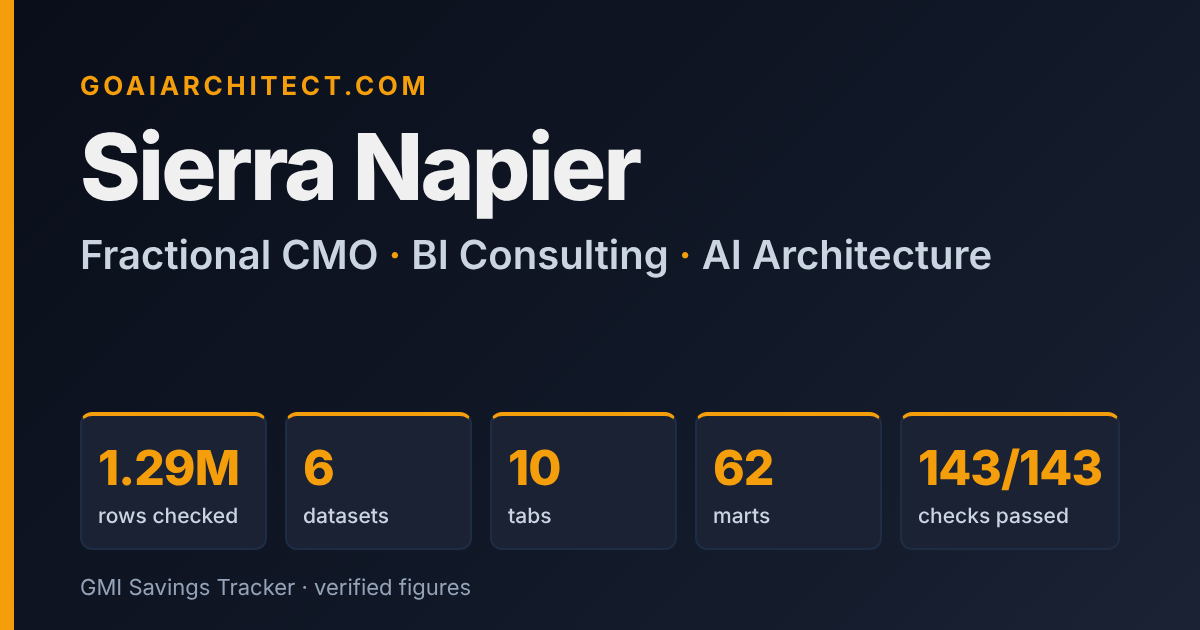
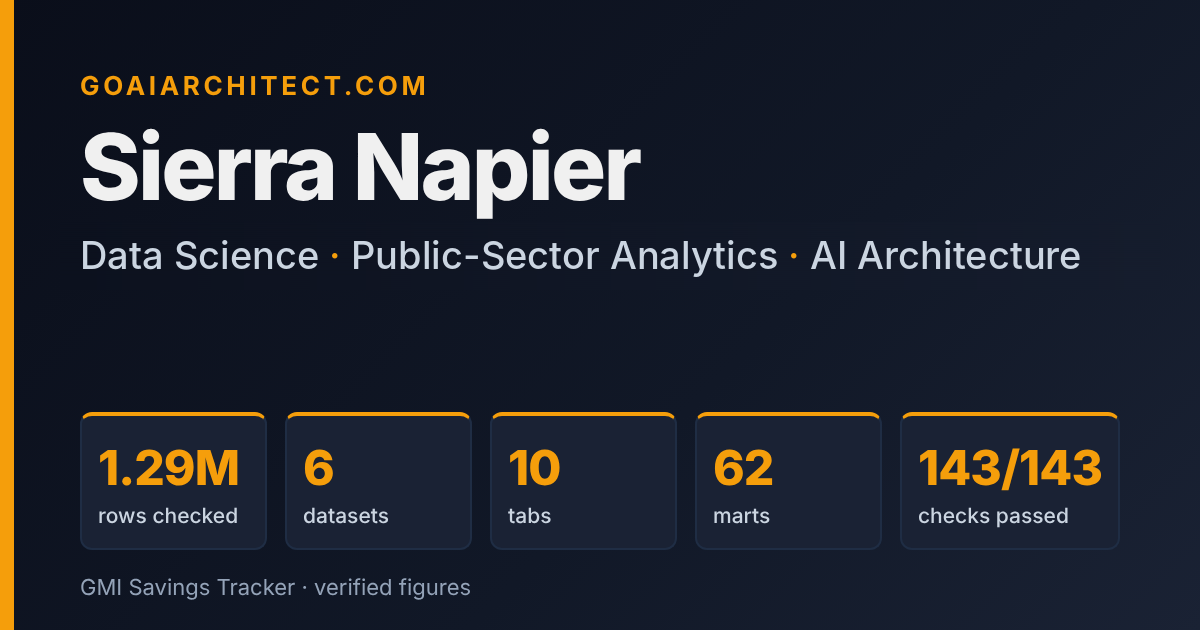
Lead with data science; add GMI case study; stop linking the private repo
- Title, meta, Open Graph, Twitter, JSON-LD and hero now lead with data science
  and public-sector analytics; fractional/BI consulting is secondary.
- Regenerate the social-share image and fix its alt text.
- New case study page at /projects/gmi-savings-tracker/ (problem, method, result,
  limits; both reported totals kept apart and labeled unverified).
- Repoint the ten GMI card links and the footer from the private repo to the case study.

Claude-Session: https://claude.ai/code/session_01PGNQKw68gNTRMx4kbQH89J

Changed region(s): [[0.0617, 0.3619, 0.925, 0.4524]]

diff --git a/index.html b/index.html
@@ -3,9 +3,9 @@
 <head>
     <meta charset="UTF-8">
     <meta name="viewport" content="width=device-width, initial-scale=1.0">
-    <meta name="description" content="Sierra Napier — Fractional CMO & BI Consulting. MPA/MPH. Data Scientist | AI Architect | Analytics Viz. Available for fractional leadership, BI consulting, and AI architecture engagements.">
-    <meta property="og:title" content="Sierra Napier — Fractional CMO & BI Consulting">
-    <meta property="og:description" content="Fractional CMO | BI Consulting | AI Architecture. 1.29M rows checked against the portal. 6 Maryland open datasets. 143 of 143 data checks passed.">
+    <meta name="description" content="Sierra Napier, MPA/MPH: data scientist and AI architect for public-sector analytics. 1.29M Maryland open-data rows verified, 143 of 143 checks passed.">
+    <meta property="og:title" content="Sierra Napier | Data Scientist, Public-Sector Analytics">
+    <meta property="og:description" content="Data scientist and AI architect for public-sector analytics. 1.29M rows checked against the portal, 6 Maryland open datasets, 143 of 143 data checks passed.">
     <link rel="canonical" href="https://goaiarchitect.com/">
     <meta property="og:url" content="https://goaiarchitect.com/">
     <meta property="og:type" content="website">
@@ -15,13 +15,13 @@
     <meta property="og:image:type" content="image/png">
     <meta property="og:image:width" content="1200">
     <meta property="og:image:height" content="630">
-    <meta property="og:image:alt" content="Sierra Napier, Fractional CMO and BI Consulting. 1.29M rows, 6 datasets, 10 tabs, 62 marts, 143 of 143 checks passed.">
+    <meta property="og:image:alt" content="Sierra Napier, Data Science, Public-Sector Analytics and AI Architecture. 1.29M rows, 6 datasets, 10 tabs, 62 marts, 143 of 143 checks passed.">
     <meta name="twitter:card" content="summary_large_image">
     <meta name="twitter:image" content="https://goaiarchitect.com/assets/og-image.png">
-    <meta name="twitter:image:alt" content="Sierra Napier, Fractional CMO and BI Consulting. 1.29M rows, 6 datasets, 10 tabs, 62 marts, 143 of 143 checks passed.">
-    <meta name="twitter:title" content="Sierra Napier — Fractional CMO & BI Consulting">
-    <meta name="twitter:description" content="Fractional CMO | BI Consulting | AI Architecture. 1.29M rows. 6 Maryland open datasets. 143/143 checks passed.">
-    <title>Sierra Napier — Fractional CMO & BI Consulting</title>
+    <meta name="twitter:image:alt" content="Sierra Napier, Data Science, Public-Sector Analytics and AI Architecture. 1.29M rows, 6 datasets, 10 tabs, 62 marts, 143 of 143 checks passed.">
+    <meta name="twitter:title" content="Sierra Napier | Data Scientist, Public-Sector Analytics">
+    <meta name="twitter:description" content="Data scientist and AI architect for public-sector analytics. 1.29M rows, 6 Maryland open datasets, 143/143 checks passed.">
+    <title>Sierra Napier | Data Scientist, Public-Sector Analytics</title>
     <meta name="theme-color" content="#0a0e1a">
     <script type="application/ld+json">
 {
@@ -29,8 +29,8 @@
   "@type": "ProfilePage",
   "@id": "https://goaiarchitect.com/#profile",
   "url": "https://goaiarchitect.com/",
-  "name": "Sierra Napier — Fractional CMO & BI Consulting",
-  "description": "Fractional CMO, BI consulting and AI architecture. 1.29M rows checked against the portal, 6 Maryland open datasets, 143 of 143 data checks passed.",
+  "name": "Sierra Napier | Data Scientist, Public-Sector Analytics",
+  "description": "Data scientist and AI architect for public-sector analytics, with secondary fractional BI consulting. 1.29M rows checked against the portal, 6 Maryland open datasets, 143 of 143 data checks passed.",
   "dateModified": "2026-11-18",
   "inLanguage": "en-US",
   "mainEntity": {
@@ -38,7 +38,7 @@
     "@id": "https://goaiarchitect.com/#person",
     "name": "Sierra Napier",
     "url": "https://goaiarchitect.com/",
-    "jobTitle": "Fractional CMO, BI Consultant and AI Architect",
+    "jobTitle": "Data Scientist and AI Architect, public-sector analytics",
     "image": "https://goaiarchitect.com/assets/og-image.png",
     "sameAs": [
       "https://www.linkedin.com/in/sierran/",
@@ -844,20 +844,20 @@
             </div>
             <h1>Sierra Napier</h1>
             <div class="hero-badges">
-                <span class="hero-badge">Fractional CMO</span>
-                <span class="hero-badge">BI Consulting</span>
+                <span class="hero-badge">Data Science</span>
+                <span class="hero-badge">Public-Sector Analytics</span>
                 <span class="hero-badge">AI Architecture</span>
             </div>
             <p class="tagline">
-                I <strong>architect growth systems</strong> for companies that need senior marketing leadership without the full-time hire. 
-                I <strong>build BI infrastructure</strong> that turns your data into decisions. 
-                I <strong>deploy AI agents</strong> that automate what used to take teams.
+                I am a <strong>data scientist</strong> focused on <strong>public-sector analytics</strong>: I turn open government data into verified, decision-ready analysis. 
+                I <strong>architect AI systems</strong> and <strong>build data pipelines</strong> with documented checks behind every figure. 
+                I also take on <strong>fractional BI and marketing leadership</strong> engagements.
             </p>
             <div class="hero-cta">
-                <a href="#services" class="btn btn-primary">View Services</a>
-                <a href="#portfolio" class="btn btn-secondary">See Portfolio</a>
+                <a href="#portfolio" class="btn btn-primary">See Portfolio</a>
+                <a href="#services" class="btn btn-secondary">Consulting Services</a>
                 <a href="demo/gmi-savings-tracker.html" class="btn btn-secondary">Live Demo</a>
-                <a href="#contact" class="btn btn-accent">Book a Call</a>
+                <a href="#contact" class="btn btn-accent">Get in Touch</a>
             </div>
         </div>
     </header>
@@ -887,7 +887,7 @@
                     <p>Most analysts stop at the report. Most engineers stop at the model. I do <strong>all three</strong> — from raw data to deployed system to boardroom-ready visualization.</p>
                     <p>My foundation is <strong>MPA/MPH</strong> — policy analysis, regulatory environments, and public health data. I spent years working with <strong>Census ACS, BLS employment data, CMS drug utilization, and USASpending procurement records</strong> at scale.</p>
                     <p>That deep federal data expertise led me to <strong>machine learning</strong> — NASA turbofan predictive maintenance, arXiv NLP classification, transit demand forecasting. Then to <strong>AI architecture</strong> — building agentic systems, local LLM deployments, and automation pipelines.</p>
-                    <p>Now I offer that expertise as <strong>fractional leadership</strong> — whether you need a CMO to own your growth, a BI consultant to make your data talk, or an AI architect to automate what used to take teams.</p>
+                    <p>I apply that expertise to public-sector analytics, and I also offer it as a <strong>secondary consulting service</strong> — fractional marketing leadership, BI consulting, or AI architecture to automate what used to take teams.</p>
                 </div>
                 <div class="career-arc">
                     <div class="career-step">
@@ -977,7 +977,7 @@
                 <h3>GMI Savings Tracker</h3>
                 <p>An independent check of GMI: it compares reported savings with the state's own payments and shows conditional paths to GMI's $50M savings target (set for FY2026).</p>
                 <p>The flagship is <a href="https://evo3-ecosystem.github.io/gmi-savings-tracker/" target="_blank" rel="noopener">gmi-savings-tracker (v1)</a>. The cards below show its testing ground, <a href="https://evo3-ecosystem.github.io/gmi-savings-tracker-v3/" target="_blank" rel="noopener">v3</a>.</p>
-                <p class="gmi-fine">Independent prototype by Sierra Napier, built from Maryland's open data; not an official State of Maryland product. Data as of 2026-11-13, portal updated 2026-11-09. All years are Maryland State fiscal years (July 1 to June 30; FY2026 = July 1, 2025 to June 30, 2026), and "a year" means one fiscal year. FY2027 began July 1, 2026, so its figures are partial. Built from commit <a href="https://github.com/EVO3-Ecosystem/gmi-savings-tracker-v3/commit/9c5400ed8b04fd29d41697116f3f9621c9b0c81c" target="_blank" rel="noopener">9c5400e</a> of <a href="https://github.com/EVO3-Ecosystem/gmi-savings-tracker-v3" target="_blank" rel="noopener">EVO3-Ecosystem/gmi-savings-tracker-v3</a> · <a href="https://evo3-ecosystem.github.io/gmi-savings-tracker-v3/about.html" target="_blank" rel="noopener">About the pipeline</a> · <a href="https://evo3-ecosystem.github.io/gmi-savings-tracker-v3/explorer.html" target="_blank" rel="noopener">Data explorer</a> · <a href="https://evo3-ecosystem.github.io/gmi-savings-tracker-v3/catalog.html" target="_blank" rel="noopener">Database catalog</a> · <a href="https://evo3-ecosystem.github.io/gmi-savings-tracker-v3/ai.html" target="_blank" rel="noopener">AI layer</a></p>
+                <p class="gmi-fine">Independent prototype by Sierra Napier, built from Maryland's open data; not an official State of Maryland product. Data as of 2026-11-13, portal updated 2026-11-09. All years are Maryland State fiscal years (July 1 to June 30; FY2026 = July 1, 2025 to June 30, 2026), and "a year" means one fiscal year. FY2027 began July 1, 2026, so its figures are partial. Built from commit 9c5400e · <a href="/projects/gmi-savings-tracker/">Read the case study</a> · <a href="https://evo3-ecosystem.github.io/gmi-savings-tracker-v3/about.html" target="_blank" rel="noopener">About the pipeline</a> · <a href="https://evo3-ecosystem.github.io/gmi-savings-tracker-v3/explorer.html" target="_blank" rel="noopener">Data explorer</a> · <a href="https://evo3-ecosystem.github.io/gmi-savings-tracker-v3/catalog.html" target="_blank" rel="noopener">Database catalog</a> · <a href="https://evo3-ecosystem.github.io/gmi-savings-tracker-v3/ai.html" target="_blank" rel="noopener">AI layer</a></p>
             </div>
 
             <div class="project-card gmi-card" id="gmi-over">
@@ -1017,7 +1017,7 @@
                 </div>
                 <div class="project-footer">
                     <span class="data-sources">Data: Maryland Open Data Portal · as of 2026-11-13 · Testing ground (v3)</span>
-                    <a class="repo-link" href="https://github.com/EVO3-Ecosystem/gmi-savings-tracker-v3" target="_blank">View Repository →</a>
+                    <a class="repo-link" href="/projects/gmi-savings-tracker/">Read the case study →</a>
                 </div>
             </div>
             <div class="project-card gmi-card" id="gmi-areas">
@@ -1057,7 +1057,7 @@
                 </div>
                 <div class="project-footer">
                     <span class="data-sources">Data: Maryland Open Data Portal · as of 2026-11-13 · Testing ground (v3)</span>
-                    <a class="repo-link" href="https://github.com/EVO3-Ecosystem/gmi-savings-tracker-v3" target="_blank">View Repository →</a>
+                    <a class="repo-link" href="/projects/gmi-savings-tracker/">Read the case study →</a>
                 </div>
             </div>
             <div class="project-card gmi-card" id="gmi-track">
@@ -1097,7 +1097,7 @@
                 </div>
                 <div class="project-footer">
                     <span class="data-sources">Data: Maryland Open Data Portal · as of 2026-11-13 · Testing ground (v3)</span>
-                    <a class="repo-link" href="https://github.com/EVO3-Ecosystem/gmi-savings-tracker-v3" target="_blank">View Repository →</a>
+                    <a class="repo-link" href="/projects/gmi-savings-tracker/">Read the case study →</a>
                 </div>
             </div>
             <div class="project-card gmi-card" id="gmi-opp">
@@ -1137,7 +1137,7 @@
                 </div>
                 <div class="project-footer">
                     <span class="data-sources">Data: Maryland Open Data Portal · as of 2026-11-13 · Testing ground (v3)</span>
-                    <a class="repo-link" href="https://github.com/EVO3-Ecosystem/gmi-savings-tracker-v3" target="_blank">View Repository →</a>
+                    <a class="repo-link" href="/projects/gmi-savings-tracker/">Read the case study →</a>
                 </div>
             </div>
             <div class="project-card gmi-card" id="gmi-calc">
@@ -1177,7 +1177,7 @@
                 </div>
                 <div class="project-footer">
                     <span class="data-sources">Data: Maryland Open Data Portal · as of 2026-11-13 · Testing ground (v3)</span>
-                    <a class="repo-link" href="https://github.com/EVO3-Ecosystem/gmi-savings-tracker-v3" target="_blank">View Repository →</a>
+                    <a class="repo-link" href="/projects/gmi-savings-tracker/">Read the case study →</a>
                 </div>
             </div>
             <div class="project-card gmi-card" id="gmi-fcast">
@@ -1217,7 +1217,7 @@
                 </div>
                 <div class="project-footer">
                     <span class="data-sources">Data: Maryland Open Data Portal · as of 2026-11-13 · Testing ground (v3)</span>
-                    <a class="repo-link" href="https://github.com/EVO3-Ecosystem/gmi-savings-tracker-v3" target="_blank">View Repository →</a>
+                    <a class="repo-link" href="/projects/gmi-savings-tracker/">Read the case study →</a>
                 </div>
             </div>
             <div class="project-card gmi-card" id="gmi-vend">
@@ -1257,7 +1257,7 @@
                 </div>
                 <div class="project-footer">
                     <span class="data-sources">Data: Maryland Open Data Portal · as of 2026-11-13 · Testing ground (v3)</span>
-                    <a class="repo-link" href="https://github.com/EVO3-Ecosystem/gmi-savings-tracker-v3" target="_blank">View Repository →</a>
+                    <a class="repo-link" href="/projects/gmi-savings-tracker/">Read the case study →</a>
                 </div>
             </div>
             <div class="project-card gmi-card" id="gmi-agency">
@@ -1297,7 +1297,7 @@
                 </div>
                 <div class="project-footer">
                     <span class="data-sources">Data: Maryland Open Data Portal · as of 2026-11-13 · Testing ground (v3)</span>
-                    <a class="repo-link" href="https://github.com/EVO3-Ecosystem/gmi-savings-tracker-v3" target="_blank">View Repository →</a>
+                    <a class="repo-link" href="/projects/gmi-savings-tracker/">Read the case study →</a>
                 </div>
             </div>
             <div class="project-card gmi-card" id="gmi-budget">
@@ -1337,7 +1337,7 @@
                 </div>
                 <div class="project-footer">
                     <span class="data-sources">Data: Maryland Open Data Portal · as of 2026-11-13 · Testing ground (v3)</span>
-                    <a class="repo-link" href="https://github.com/EVO3-Ecosystem/gmi-savings-tracker-v3" target="_blank">View Repository →</a>
+                    <a class="repo-link" href="/projects/gmi-savings-tracker/">Read the case study →</a>
                 </div>
             </div>
             <div class="project-card gmi-card" id="gmi-data">
@@ -1377,7 +1377,7 @@
                 </div>
                 <div class="project-footer">
                     <span class="data-sources">Data: Maryland Open Data Portal · as of 2026-11-13 · Testing ground (v3)</span>
-                    <a class="repo-link" href="https://github.com/EVO3-Ecosystem/gmi-savings-tracker-v3" target="_blank">View Repository →</a>
+                    <a class="repo-link" href="/projects/gmi-savings-tracker/">Read the case study →</a>
                 </div>
             </div>
             <h3 class="section-subtitle" style="margin-top:3rem;color:var(--text-primary);font-weight:700;">More verified work</h3>
@@ -3363,7 +3363,7 @@
         <section id="contact">
             <div class="contact-section">
                 <h2>Let's Build Something</h2>
-                <p>Available for fractional CMO engagements, BI consulting projects, and AI architecture work. I'll respond within 24 hours.</p>
+                <p>Available for data science and public-sector analytics roles, plus fractional CMO, BI consulting, and AI architecture engagements. I'll respond within 24 hours.</p>
                 <div class="contact-links">
                     <a href="mailto:s.napier430@gmail.com">s.napier430@gmail.com</a>
                     <a href="https://www.linkedin.com/in/sierran/">LinkedIn</a>

diff --git a/projects/gmi-savings-tracker/index.html b/projects/gmi-savings-tracker/index.html
@@ -1,0 +1,188 @@
+<!DOCTYPE html>
+<html lang="en">
+<head>
+    <meta charset="UTF-8">
+    <meta name="viewport" content="width=device-width, initial-scale=1.0">
+    <title>GMI Savings Tracker: Case Study | Sierra Napier</title>
+    <meta name="description" content="Case study: an independent prototype that checks Maryland's reported GMI savings against what the State paid, using only open data and 143 stop checks.">
+    <link rel="canonical" href="https://goaiarchitect.com/projects/gmi-savings-tracker/">
+    <meta property="og:title" content="GMI Savings Tracker: Case Study">
+    <meta property="og:description" content="Did Maryland's reported GMI savings show up in what the State paid? An independent prototype built only from open data.">
+    <meta property="og:url" content="https://goaiarchitect.com/projects/gmi-savings-tracker/">
+    <meta property="og:type" content="article">
+    <meta property="og:image" content="https://goaiarchitect.com/assets/og-image.png">
+    <meta property="og:image:alt" content="Sierra Napier, Fractional CMO and BI Consulting. 1.29M rows, 6 datasets, 10 tabs, 62 marts, 143 of 143 checks passed.">
+    <meta name="twitter:card" content="summary_large_image">
+    <meta name="twitter:title" content="GMI Savings Tracker: Case Study">
+    <meta name="twitter:description" content="Independent prototype checking Maryland's reported GMI savings against State payments, built only from open data.">
+    <style>
+        :root {
+            --bg-deep: #0a0e1a;
+            --bg-surface: #111827;
+            --bg-elevated: #1a2234;
+            --border: #1f2d44;
+            --text-primary: #f0f0f0;
+            --text-secondary: #a9b6c9;
+            --accent-gold: #f59e0b;
+            --accent-cyan: #22d3ee;
+        }
+        * { margin: 0; padding: 0; box-sizing: border-box; }
+        html { scroll-behavior: smooth; }
+        @media (prefers-reduced-motion: reduce) { html { scroll-behavior: auto; } }
+        body {
+            font-family: 'Inter', 'Segoe UI', system-ui, -apple-system, sans-serif;
+            background: var(--bg-deep);
+            color: var(--text-primary);
+            line-height: 1.7;
+            -webkit-font-smoothing: antialiased;
+        }
+        .container { max-width: 1200px; margin: 0 auto; padding: 0 1rem; }
+        @media (min-width: 640px) { .container { padding: 0 2rem; } }
+        .prose { max-width: 46rem; margin: 0 auto; }
+        :focus-visible { outline: 3px solid var(--accent-cyan); outline-offset: 2px; border-radius: 4px; }
+        .skip-link { position: absolute; left: 0.75rem; top: -4rem; z-index: 1000; padding: 0.6rem 1rem; background: #f59e0b; color: #0a0e1a; font-weight: 700; font-size: 0.95rem; border-radius: 0 0 8px 8px; text-decoration: none; transition: top 0.15s; }
+        .skip-link:focus, .skip-link:focus-visible { top: 0; outline: 3px solid #0a0e1a; outline-offset: -3px; }
+
+        nav { position: sticky; top: 0; background: rgba(10, 14, 26, 0.97); border-bottom: 1px solid var(--border); z-index: 100; padding: 0.75rem 0; }
+        .nav-inner { display: flex; justify-content: space-between; align-items: center; flex-wrap: wrap; gap: 0.75rem 1.5rem; }
+        .nav-brand { display: flex; align-items: center; gap: 0.75rem; font-weight: 700; font-size: 1.1rem; color: var(--text-primary); text-decoration: none; }
+        .nav-brand img { width: 32px; height: 32px; border-radius: 6px; object-fit: contain; }
+        .nav-links { padding: 0; margin: 0; display: flex; flex-wrap: wrap; gap: 0.25rem 1.5rem; list-style: none; }
+        .nav-links a { color: var(--text-secondary); text-decoration: none; font-size: 0.95rem; font-weight: 500; padding: 0.35rem 0; display: inline-block; }
+        .nav-links a:hover { color: var(--accent-gold); }
+
+        main { padding: 2.5rem 0 3rem; }
+        h1 { font-size: clamp(1.9rem, 5vw, 2.8rem); font-weight: 800; letter-spacing: -0.02em; line-height: 1.2; margin-bottom: 1rem; }
+        h2 { font-size: 1.6rem; font-weight: 700; line-height: 1.3; margin: 3rem 0 1rem; color: var(--accent-gold); }
+        h3 { font-size: 1.15rem; font-weight: 700; margin: 1.75rem 0 0.5rem; }
+        p, ul { margin-bottom: 1rem; }
+        ul { padding-left: 1.4rem; }
+        li { margin-bottom: 0.5rem; }
+        .lead { font-size: 1.2rem; color: var(--text-primary); }
+        .byline { color: var(--text-secondary); font-size: 0.95rem; margin-bottom: 1.5rem; }
+        .notice { background: var(--bg-elevated); border: 1px solid var(--border); border-left: 4px solid var(--accent-gold); border-radius: 8px; padding: 1rem 1.25rem; margin: 1.5rem 0; }
+        .notice p:last-child { margin-bottom: 0; }
+        .stats { display: grid; grid-template-columns: repeat(auto-fit, minmax(9.5rem, 1fr)); gap: 0.75rem; list-style: none; padding: 0; margin: 1.5rem 0; }
+        .stats li { background: var(--bg-surface); border: 1px solid var(--border); border-radius: 10px; padding: 0.9rem 1rem; margin: 0; }
+        .stats strong { display: block; font-size: 1.5rem; color: var(--accent-cyan); line-height: 1.2; }
+        .stats span { color: var(--text-secondary); font-size: 0.9rem; }
+        a { color: var(--accent-cyan); text-underline-offset: 3px; }
+        a:hover { color: #67e8f9; }
+        .btn { display: inline-block; background: var(--accent-gold); color: #0a0e1a; font-weight: 700; padding: 0.7rem 1.25rem; border-radius: 8px; text-decoration: none; margin: 0.25rem 0.5rem 0.5rem 0; }
+        .btn:hover { background: #fbbf24; color: #0a0e1a; }
+        .btn.secondary { background: transparent; color: var(--accent-cyan); border: 2px solid var(--accent-cyan); }
+        .btn.secondary:hover { background: var(--bg-elevated); color: #67e8f9; }
+        footer { border-top: 1px solid var(--border); padding: 1.5rem 1rem 2.5rem; color: var(--text-secondary); font-size: 0.95rem; text-align: center; }
+    </style>
+</head>
+<body>
+    <a class="skip-link" href="#main">Skip to main content</a>
+    <nav aria-label="Primary">
+        <div class="container">
+            <div class="nav-inner">
+                <a href="../../" class="nav-brand">
+                    <img src="../../assets/logo.png" width="32" height="32" alt="">
+                    <span>Sierra Napier</span>
+                </a>
+                <ul class="nav-links">
+                    <li><a href="../../#about">About</a></li>
+                    <li><a href="../../#services">Services</a></li>
+                    <li><a href="../../#portfolio">Portfolio</a></li>
+                    <li><a href="../../demo/gmi-savings-tracker.html">Live Demo</a></li>
+                    <li><a href="../../#contact">Contact</a></li>
+                </ul>
+            </div>
+        </div>
+    </nav>
+
+    <main id="main">
+        <div class="container">
+            <article class="prose">
+                <h1>GMI Savings Tracker: case study</h1>
+                <p class="byline">By Sierra Napier, MPA/MPH. Data as of Nov 13, 2026 (portal updated Nov 9, 2026).</p>
+
+                <p class="lead">Bottom line: payments to the vendors tied to GMI fell in 5 of the 12 areas checked. That is evidence, not proof. The reported savings are not verified, and the rest of the picture needs agency records.</p>
+
+                <div class="notice" role="note">
+                    <p><strong>Independent prototype.</strong> This is not an official State of Maryland product. It is built only from Maryland's open data portal (opendata.maryland.gov) through the SODA API. DBM budget books and State sites were used only to verify the numbers.</p>
+                </div>
+
+                <ul class="stats" aria-label="Project at a glance">
+                    <li><strong>1.29M</strong><span>rows from 6 State datasets</span></li>
+                    <li><strong>143 of 143</strong><span>stop checks pass</span></li>
+                    <li><strong>77</strong><span>published tables</span></li>
+                    <li><strong>10</strong><span>dashboard tabs</span></li>
+                </ul>
+
+                <p>
+                    <a class="btn" href="../../demo/gmi-savings-tracker.html">Open the live dashboard demo</a>
+                    <a class="btn secondary" href="mailto:s.napier430@gmail.com?subject=GMI%20Savings%20Tracker%20walkthrough">Ask for a walkthrough</a>
+                </p>
+
+                <h2 id="problem">The problem</h2>
+                <p>Maryland's Government Modernization Initiative (GMI) reports savings. The question here is simple: did those savings show up in what the State actually paid, and where could more be saved?</p>
+                <p>Two totals have been reported. They count different things, so this project keeps them apart and labels each one. Neither is verified here.</p>
+                <ul>
+                    <li><strong>$29M.</strong> From the GMI final report to the Joint Chairmen, Jan 26, 2026. It describes four items as saved in FY2026.</li>
+                    <li><strong>$50M.</strong> From the Governor's GMI page, status as of June 2026, which says "implemented actions to save $50 million." The page does not say whether that is one-time or yearly.</li>
+                </ul>
+
+                <h2 id="method">The method</h2>
+                <h3>Build the data</h3>
+                <p>Six State datasets, 1.29M rows in all, were downloaded and checked against the portal's own counts and totals. They were loaded into DuckDB in layers: raw, reviewed rules, core, and 62 SQL marts. The result is published as 77 tables and a static dashboard with 10 tabs.</p>
+                <h3>Stop checks</h3>
+                <p>143 of 143 stop checks pass. Nothing publishes unless every check passes.</p>
+                <h3>Reconcile to official sources</h3>
+                <ul>
+                    <li>Every actual year, FY2017 to FY2025, reconciles with DBM's printed budget books. Statewide totals are within 0.008%, and 99.3% to 100% of programs match to the dollar.</li>
+                    <li>The enacted FY2027 budget equals DBM's Fiscal Digest in every fund.</li>
+                    <li>31 of 31 yearly totals equal the State's Open Finance sites to the cent.</li>
+                </ul>
+                <h3>Look for payment evidence</h3>
+                <p>For each GMI area, the tracker looks at payments to the matching vendors before and after. It treats a drop as evidence to follow up on, not as proof of savings.</p>
+                <h3>Model a path and find leads</h3>
+                <p>A calculator carries GMI's reported rates forward and adds labeled assumptions. Opportunity detectors flag places where more could be saved. Forecast models are shown only if they beat a simple baseline on held-out data.</p>
+
+                <h2 id="result">The result</h2>
+                <h3>Payment evidence</h3>
+                <p>Payments to the matching vendors fell in 5 of the 12 areas checked. Two examples: office supplies fell 48% and vehicle purchases fell 26%. The other areas are newer and need agency records to confirm.</p>
+                <h3>A conditional path</h3>
+                <ul>
+                    <li>Carrying GMI's reported rates forward gives about $29.6M a year.</li>
+                    <li>Add an assumed 3.5% saving (range 2% to 5%) on statewide contracts for 27 vendors, which had $569.3M in FY2026 payments, plus 1% starting savings in real estate and utilities.</li>
+                    <li>The conditional path is then $52.6M, with a range of $42.6M to $64.2M.</li>
+                    <li>About 14% of that path has payment evidence.</li>
+                </ul>
+                <p>The assumptions are labeled and can be changed in the dashboard calculator.</p>
+                <h3>Opportunity detectors</h3>
+                <p>The detectors found 389 leads worth up to $330.5M a year ($219.7M likely). Leads overlap, so they cannot be added up, and they are not savings. As a check on usefulness, 76% of flagged units were flagged again the next year, compared with 5% for like-sized unflagged units.</p>
+                <h3>Forecast ranges</h3>
+                <p>Raw 80% ranges held 58.7% of 63 past outcomes. After split-conformal calibration, 53 of 63 held (84.1%, 95% interval 73% to 91%).</p>
+                <h3>A source issue, reported and not a finding</h3>
+                <p>The FY2022 payments data lists a second $874.5M block for Maryland Environmental Service and Maryland Transportation Authority.</p>
+
+                <h2 id="limits">The limits</h2>
+                <ul>
+                    <li>Public payment data has no vendor number, only name and ZIP, so matching vendors is imperfect.</li>
+                    <li>Payments are cash paid.</li>
+                    <li>FY2027 is partial.</li>
+                    <li>Payments are evidence, not proof of savings.</li>
+                    <li>The $29M and $50M totals are neither verified here.</li>
+                    <li>This is not an audit under government auditing standards.</li>
+                </ul>
+
+                <h2 id="next">See it or ask about it</h2>
+                <p>The live dashboard demo is on this site. The code is in a private repository, and a walkthrough is available on request.</p>
+                <p>
+                    <a class="btn" href="../../demo/gmi-savings-tracker.html">Open the live dashboard demo</a>
+                    <a class="btn secondary" href="mailto:s.napier430@gmail.com?subject=GMI%20Savings%20Tracker%20walkthrough">Email for a walkthrough</a>
+                </p>
+            </article>
+        </div>
+    </main>
+
+    <footer aria-label="Site footer">
+        <p>&copy; 2026 Sierra Napier &middot; <a href="../../">Full Portfolio</a></p>
+    </footer>
+</body>
+</html>
